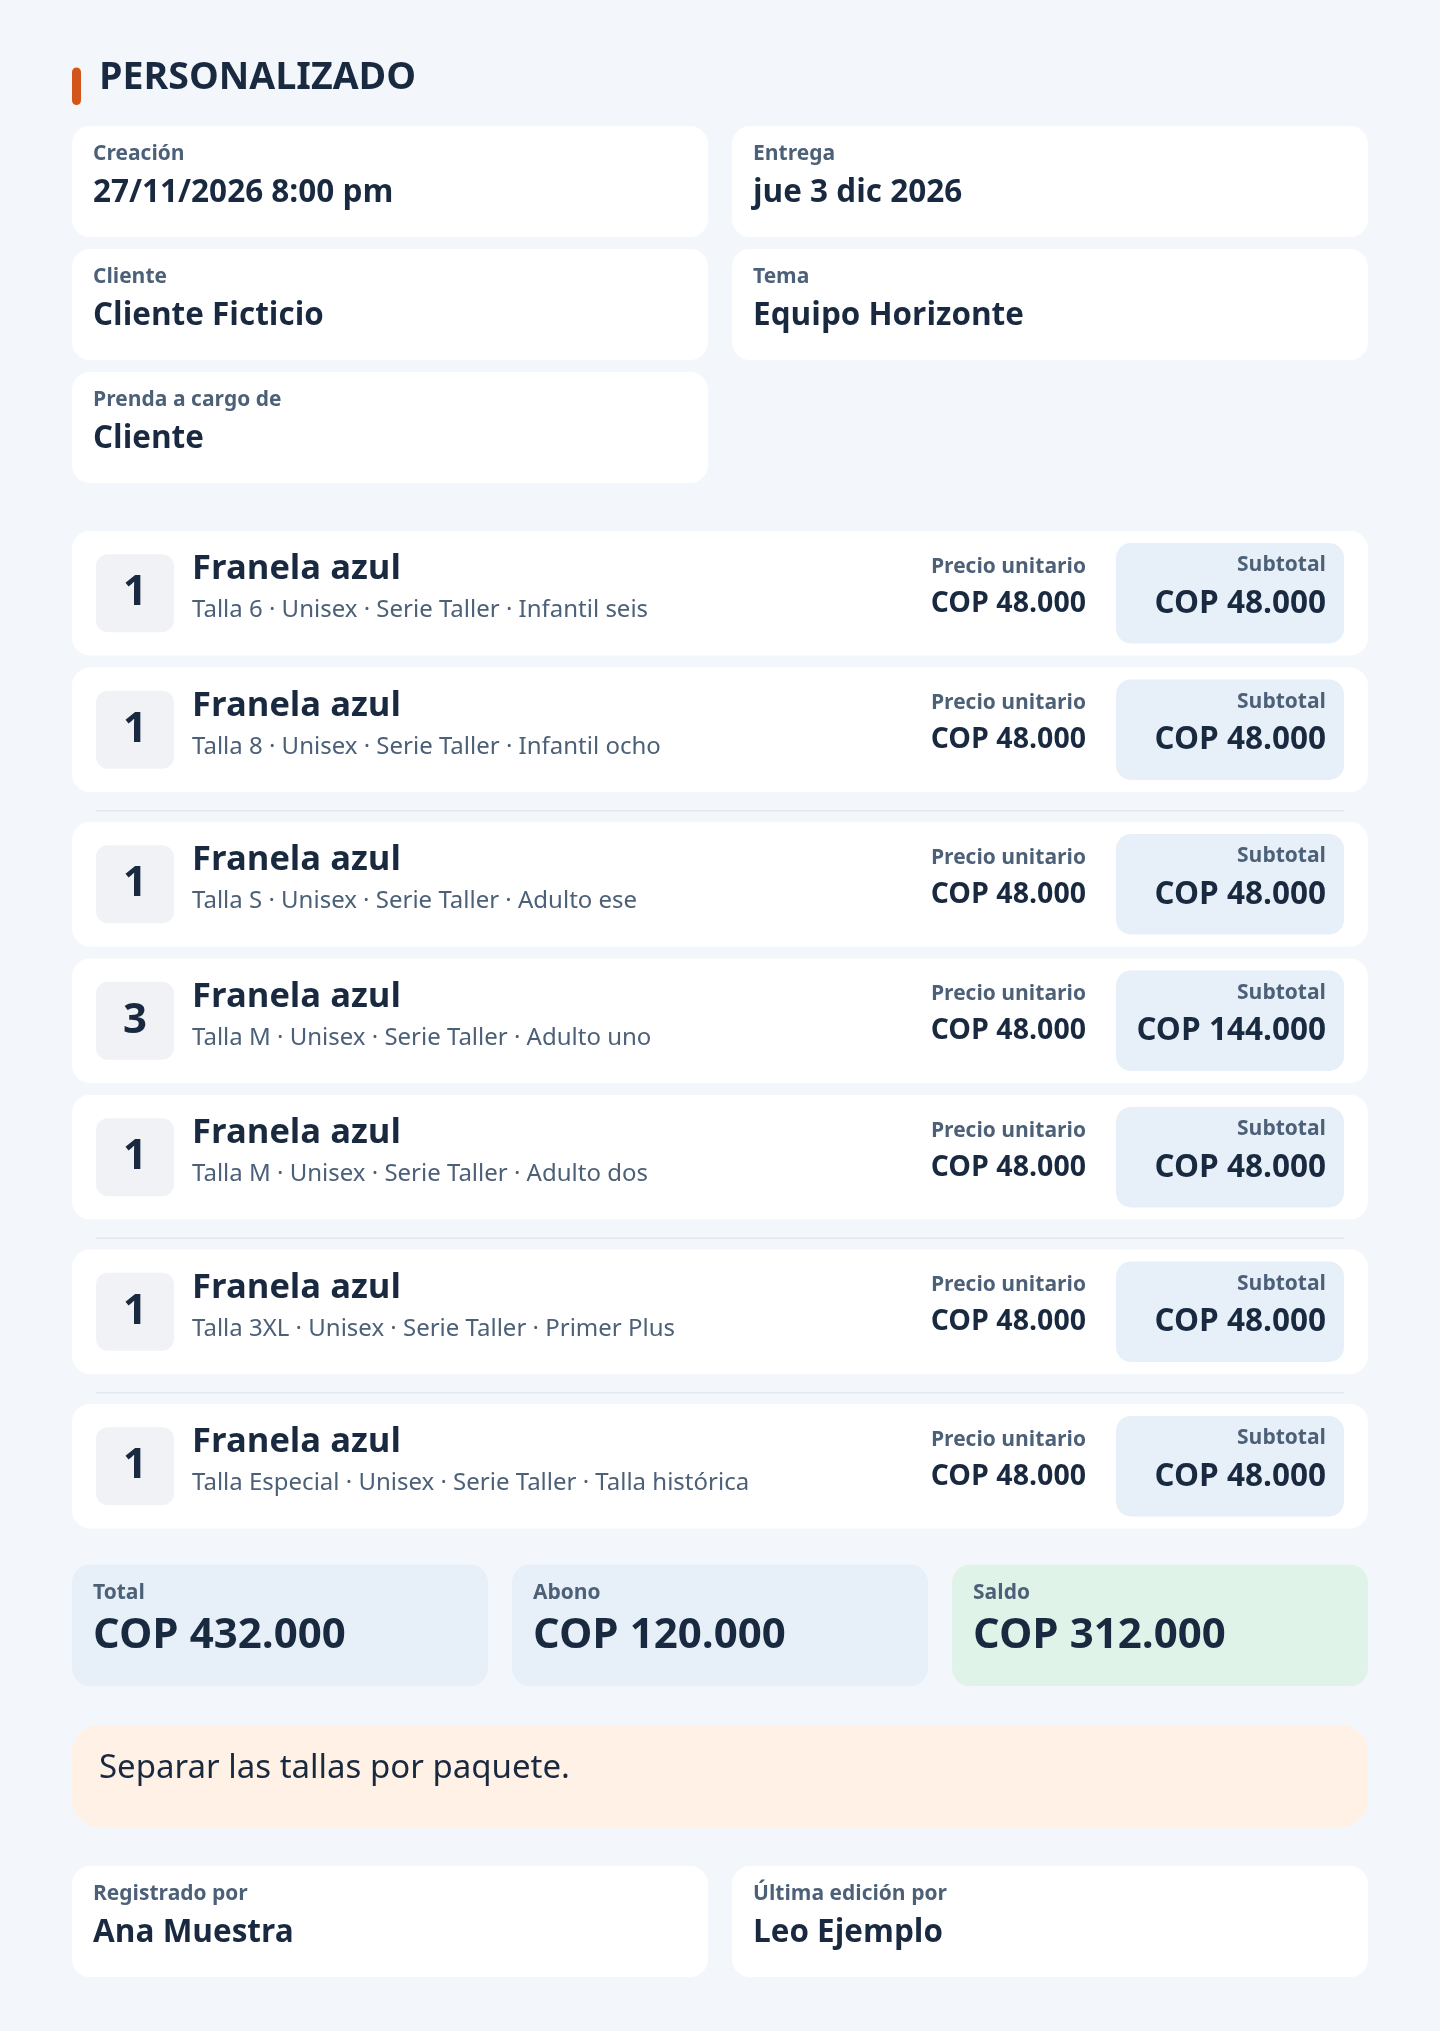
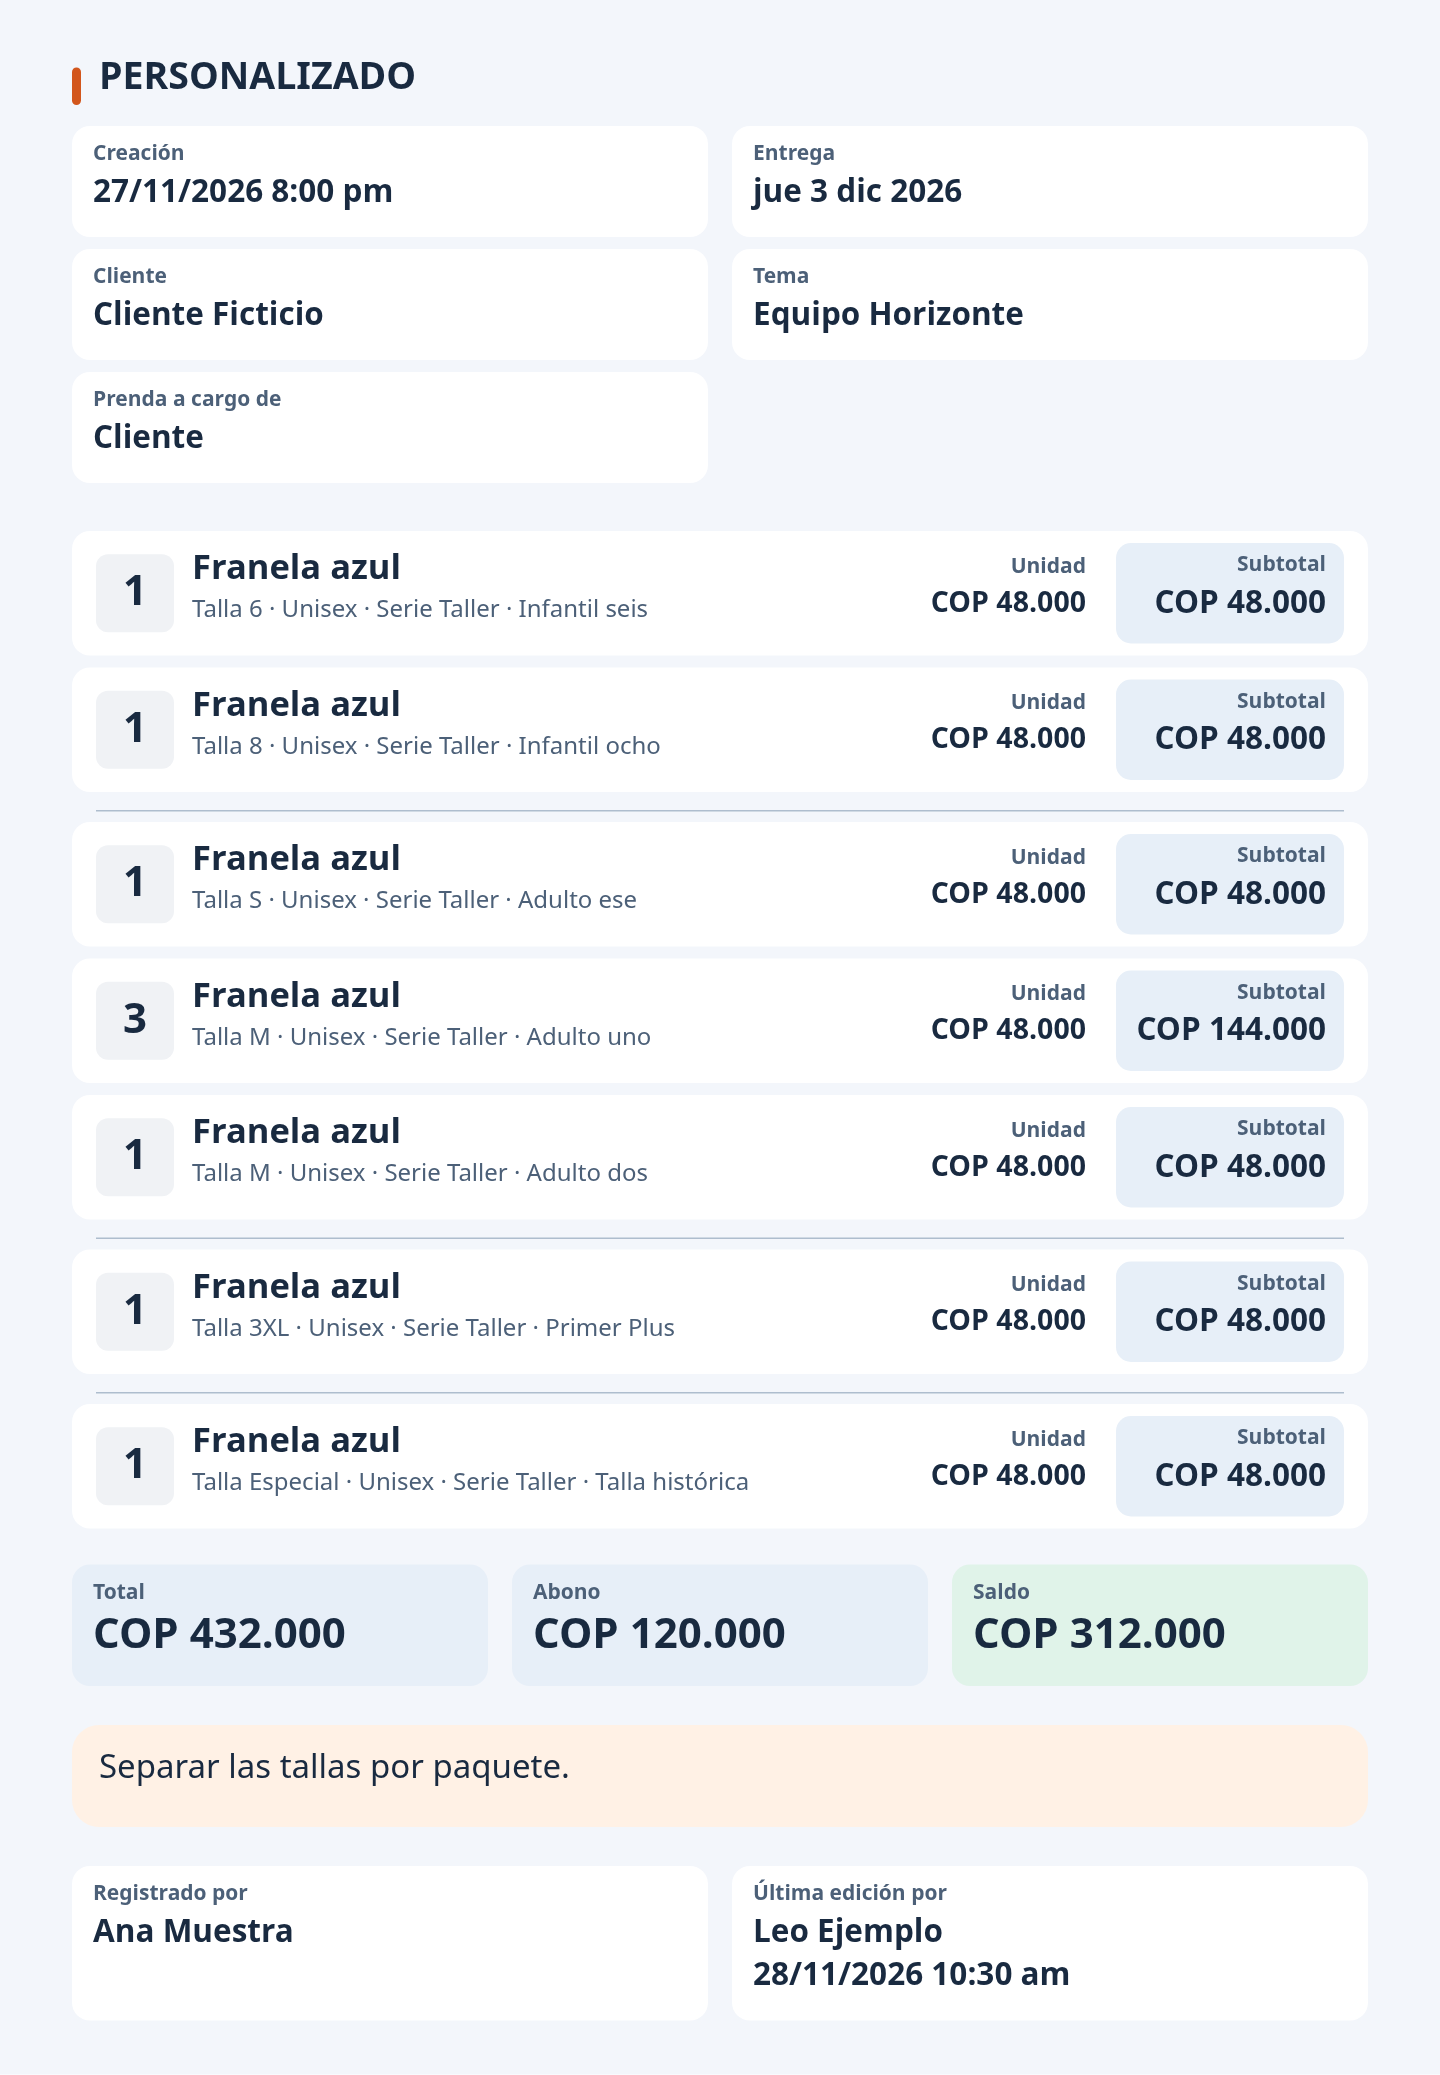
Ajusta unidad, separadores y fecha de edición del resumen

diff --git a/index.html b/index.html
@@ -707,7 +707,7 @@ table.mx{border-collapse:collapse;width:100%;font-size:13px}
 .pdit .d{flex:1;min-width:0;display:flex;flex-direction:column;line-height:1.25}
 .pdit .d b{font-size:15px;font-weight:700;white-space:nowrap;overflow:hidden;text-overflow:ellipsis}
 .pdit small{font-size:12px;color:var(--muted)}
-.pdit li.separador{border-top:1px solid var(--line);padding-top:12px}
+.pdit li.separador{border-top:1px solid color-mix(in srgb,var(--muted) 58%,var(--line));padding-top:12px}
 .pdit .pr{flex:none;max-width:48%;text-align:right;font-weight:800;font-size:14px;overflow-wrap:anywhere}
 .pdit .pr small{display:block;font-weight:400}
 .pdtl{font-size:15px;font-weight:700}
@@ -4300,6 +4300,7 @@ function modeloExportable(p){
   const totalDisponible = items.length > 0 && items.every(i => tienePrecio(i) && cantidad(i.cant) !== null);
   const abonoDisponible = p.pagoVersion === 2 ? Number.isSafeInteger(p.abonoMenor)
     : typeof p.abono === "number" ? Number.isFinite(p.abono) : centavos(p.abono) !== null;
+  const ultimaEdicion = fecha(p.editadoEn);
   return {codigo:p.codigo,titulo:TIPOS[p.tipo].label.toUpperCase(),nota:p.nota,datos:[
     ["Creación",fecha(p.creadoEn)],["Entrega",p.fechaEntrega && Number.isFinite(Date.parse(p.fechaEntrega)) ? fmtDate(p.fechaEntrega) : p.fechaEntrega],["Cliente",p.cliente?.nombre],
     ["Tema",p.tema],["Servicio",servsDe(p).join(", ")],
@@ -4314,7 +4315,7 @@ function modeloExportable(p){
     ["Saldo",totalDisponible && abonoDisponible ? importe(calculado.saldo) : ""],["Motivo sin abono",p.motivoSinAbono]
   ],seguimiento:[
     ["Registrado por",persona(p.creadoPor) || "—"],
-    ["Última edición por",p.editadoEn ? persona(p.editadoPor) || "—" : "—"]
+    ["Última edición por",ultimaEdicion ? [persona(p.editadoPor) || "—",ultimaEdicion].join("\n") : "—"]
   ]};
 }
 
@@ -4446,7 +4447,7 @@ function openDetail(id){
           return `<li${separador ? ' class="separador"' : ""}>
             <span class="q num">${esc(unidadesDe(i,p))}</span>
             <span class="d"><b>${esc(i.prenda)} ${esc(String(i.color || "").toLowerCase())}</b>${sub.length ? `<small>${esc(sub.join(" · "))}</small>` : ""}</span>
-            <span class="pr num">${esc(money(importeLinea(p,i),p.moneda))}<small>Unitario: ${esc(money(precioUnitario(p,i) / 100,p.moneda))}</small></span>
+            <span class="pr num">${esc(money(importeLinea(p,i),p.moneda))}<small>Unidad: ${esc(money(precioUnitario(p,i) / 100,p.moneda))}</small></span>
           </li>`;
         }).join("")}</ul>
       </div>

diff --git a/demo/v3706/index.html b/demo/v3706/index.html
@@ -43,7 +43,7 @@
   <section>
     <h2>Resúmenes de ejemplo</h2>
     <div class="vistas png">
-      <figure><figcaption><a href="resumen-personalizado.png" download>Descargar PNG de Personalizado</a></figcaption><img src="resumen-personalizado.png" alt="Resumen de Personalizado con prenda a cargo del cliente y nombre de la última persona que editó"></figure>
+      <figure><figcaption><a href="resumen-personalizado.png" download>Descargar PNG de Personalizado</a></figcaption><img src="resumen-personalizado.png" alt="Resumen de Personalizado con prenda a cargo del cliente y nombre, fecha y hora de la última edición"></figure>
       <figure><figcaption><a href="resumen-sublimacion.png" download>Descargar PNG de Sublimación completa</a></figcaption><img src="resumen-sublimacion.png" alt="Resumen de Sublimación completa sin edición registrada"></figure>
     </div>
   </section>
